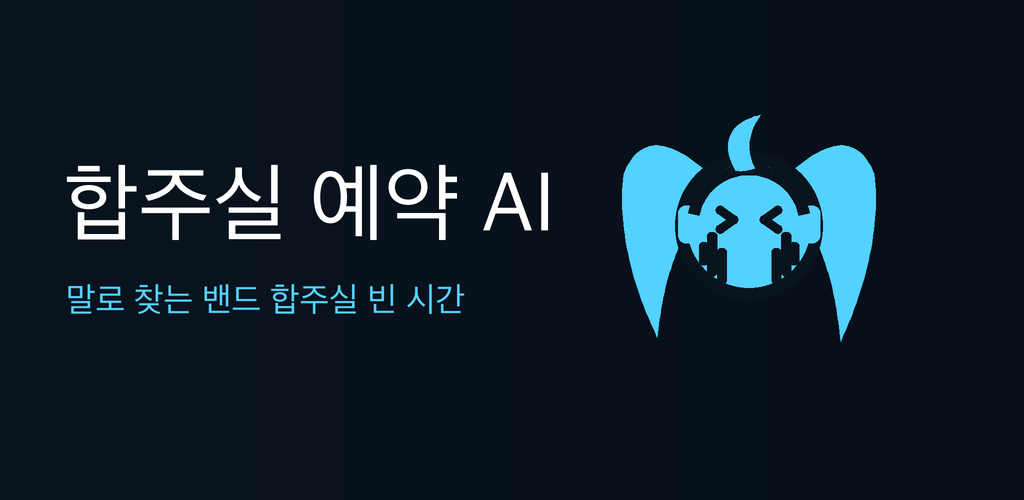
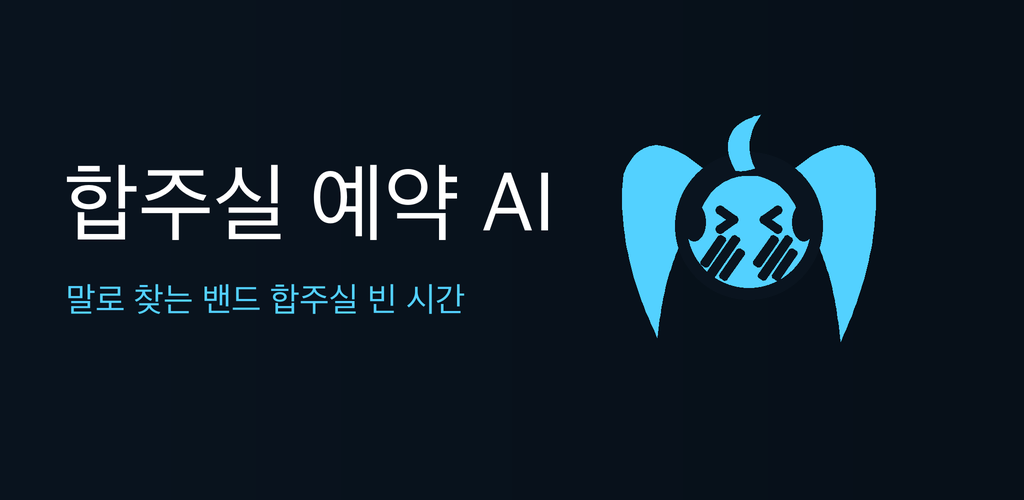
fix: 볼 장식 대각선 복원 + 에네.gif식 헤드폰 (versionCode 16)
- 볼: 대각선 둥근 사각 막대 3개(가운데 최장)로 복원 — 세로 배치는 오해였음
- 헤드폰: 머리 위 밴드 + 머리 옆을 덮는 타원 이어컵(참고 이미지 형태)

Changed region(s): [[0.6562, 0.39, 0.8125, 0.57]]

diff --git a/play/make-graphics.py b/play/make-graphics.py
@@ -20,11 +20,39 @@ RTAIL = [('M', (65, 34)), ('Q', (80, 21), (85.5, 35)), ('Q', (87.5, 54), (77, 77
 EYE_R = 1.15
 EYE_SEGS = [((46.8, 44.0), (50.2, 46.4)), ((46.8, 48.8), (50.2, 46.4)),
             ((61.2, 44.0), (57.8, 46.4)), ((61.2, 48.8), (57.8, 46.4))]
-BAR_W = 2.4; BAR_RAD = 1.0
-R_BARS = [(60.8, 53.5, 62.5), (63.3, 49.5, 60.5), (65.4, 52.0, 57.8)]
-L_BARS = [(47.2, 53.5, 62.5), (44.7, 49.5, 60.5), (42.6, 52.0, 57.8)]
-BAND_RMID = 14.2; BAND_HALF = 1.4; BAND_A0 = 192; BAND_A1 = 348
-CUPS = [(38.4, 47.5), (69.6, 47.5)]; CUP_W = 4.4; CUP_H = 9.4; CUP_RAD = 2.0
+TH = math.radians(-55)
+BAND_RMID = 14.2; BAND_HALF = 1.5; BAND_A0 = 195; BAND_A1 = 345
+CUPS = [(40.2, 47.0), (67.8, 47.0)]; CUP_RX = 2.9; CUP_RY = 4.8
+
+
+def _rrect_outline(halfL, halfW, q, n=8):
+    pts = []
+    def arc(ccx, ccy, a0, a1):
+        for i in range(n + 1):
+            a = math.radians(a0 + (a1 - a0) * i / n)
+            pts.append((ccx + q * math.cos(a), ccy + q * math.sin(a)))
+    arc(halfL - q, halfW - q, 0, 90); arc(-halfL + q, halfW - q, 90, 180)
+    arc(-halfL + q, -halfW + q, 180, 270); arc(halfL - q, -halfW + q, 270, 360)
+    return pts
+
+
+def _rot_rrect(cx, cy, th, halfL, halfW, q):
+    co, si = math.cos(th), math.sin(th)
+    return [(cx + x * co - y * si, cy + x * si + y * co) for x, y in _rrect_outline(halfL, halfW, q)]
+
+
+_U = (math.cos(TH), math.sin(TH)); _NV = (-_U[1], _U[0])
+
+
+def _cluster(cx, cy):
+    bars = []
+    for off, halfL in ((-2.9, 4.5), (0, 6.5), (2.9, 4.5)):
+        c = (cx + off * _NV[0], cy + off * _NV[1])
+        bars.append(_rot_rrect(c[0], c[1], TH, halfL, 1.15, 0.8))
+    return bars
+
+
+DEV_BARS = _cluster(60.6, 56.0) + _cluster(47.4, 56.0)
 
 
 def qbez(p0, p1, p2, n=28):
@@ -52,9 +80,6 @@ def draw_motif(dr, ox, oy, scale):
     dr.ellipse([hc[0] - hr, hc[1] - hr, hc[0] + hr, hc[1] + hr], fill=NAVY)
     rr = r * scale
     dr.ellipse([hc[0] - rr, hc[1] - rr, hc[0] + rr, hc[1] + rr], fill=CYAN)
-    for ccx, ccy in CUPS:
-        p0 = T((ccx - CUP_W / 2, ccy - CUP_H / 2)); p1 = T((ccx + CUP_W / 2, ccy + CUP_H / 2))
-        dr.rounded_rectangle([p0[0], p0[1], p1[0], p1[1]], radius=CUP_RAD * scale, fill=CYAN)
     band = []
     for dd in range(BAND_A0, BAND_A1 + 1, 4):
         a = math.radians(dd)
@@ -63,6 +88,9 @@ def draw_motif(dr, ox, oy, scale):
         a = math.radians(dd)
         band.append(T((cx + (BAND_RMID - BAND_HALF) * math.cos(a), cy + (BAND_RMID - BAND_HALF) * math.sin(a))))
     dr.polygon(band, fill=NAVY)
+    for ccx, ccy in CUPS:
+        p0 = T((ccx - CUP_RX, ccy - CUP_RY)); p1 = T((ccx + CUP_RX, ccy + CUP_RY))
+        dr.ellipse([p0[0], p0[1], p1[0], p1[1]], fill=NAVY)
     dr.polygon([T(p) for p in poly(AHOGE)], fill=CYAN)
     def seg(a, b, r2):
         A, B = T(a), T(b); cr = r2 * scale
@@ -71,10 +99,8 @@ def draw_motif(dr, ox, oy, scale):
             dr.ellipse([p[0] - cr, p[1] - cr, p[0] + cr, p[1] + cr], fill=NAVY)
     for a, b in EYE_SEGS:
         seg(a, b, EYE_R)
-    for bars in (R_BARS, L_BARS):
-        for bx, ty, by in bars:
-            p0 = T((bx - BAR_W / 2, ty)); p1 = T((bx + BAR_W / 2, by))
-            dr.rounded_rectangle([p0[0], p0[1], p1[0], p1[1]], radius=BAR_RAD * scale, fill=NAVY)
+    for bar in DEV_BARS:
+        dr.polygon([T(p) for p in bar], fill=NAVY)
 
 
 def make_icon():
